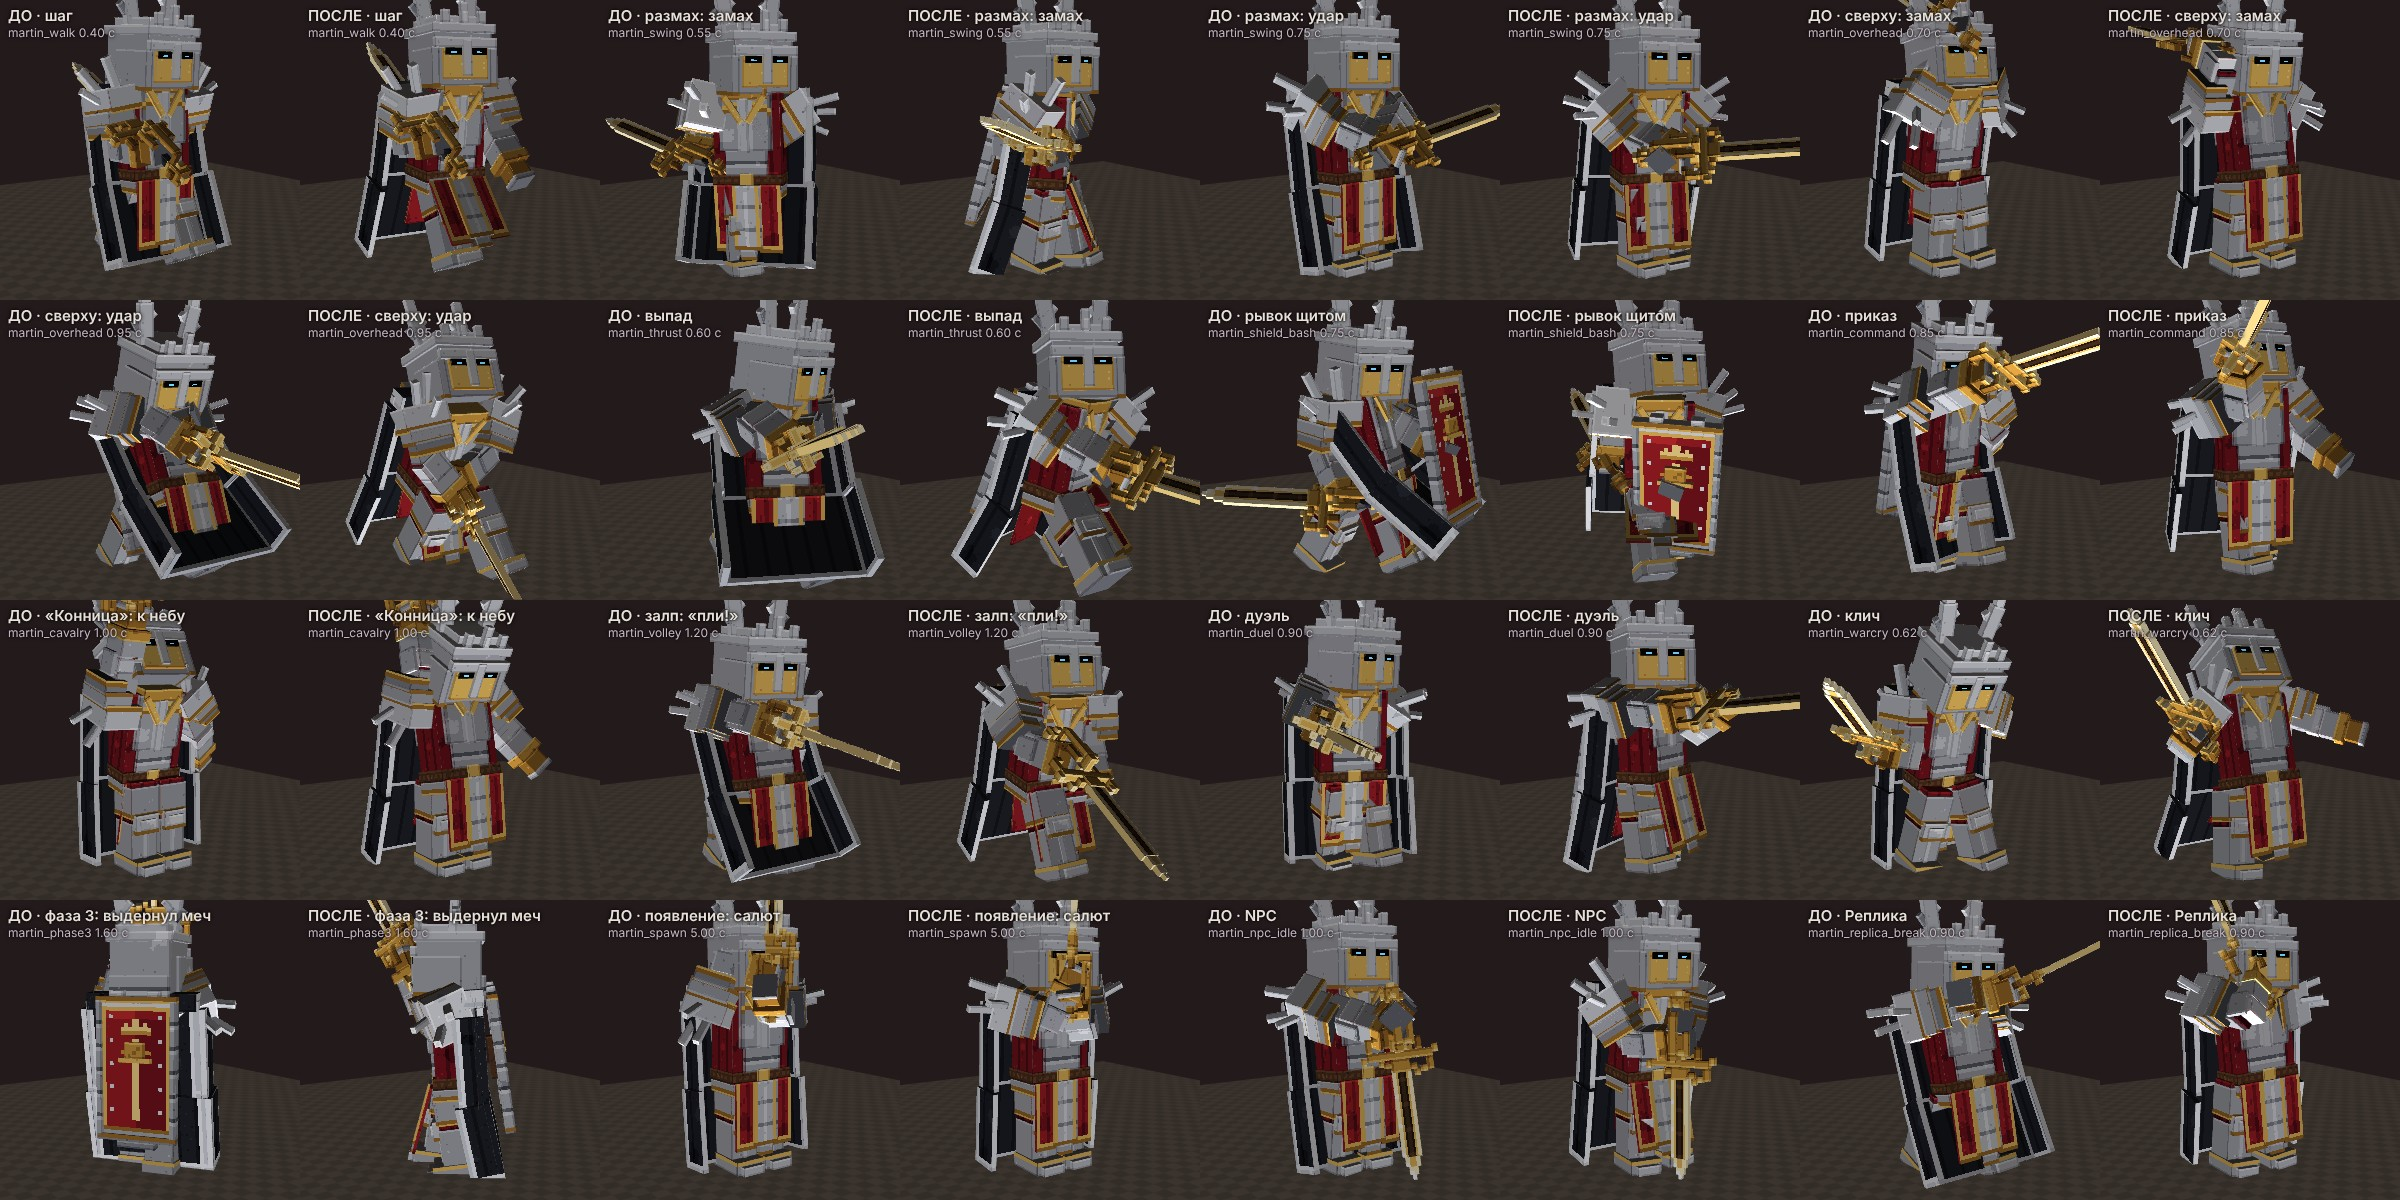
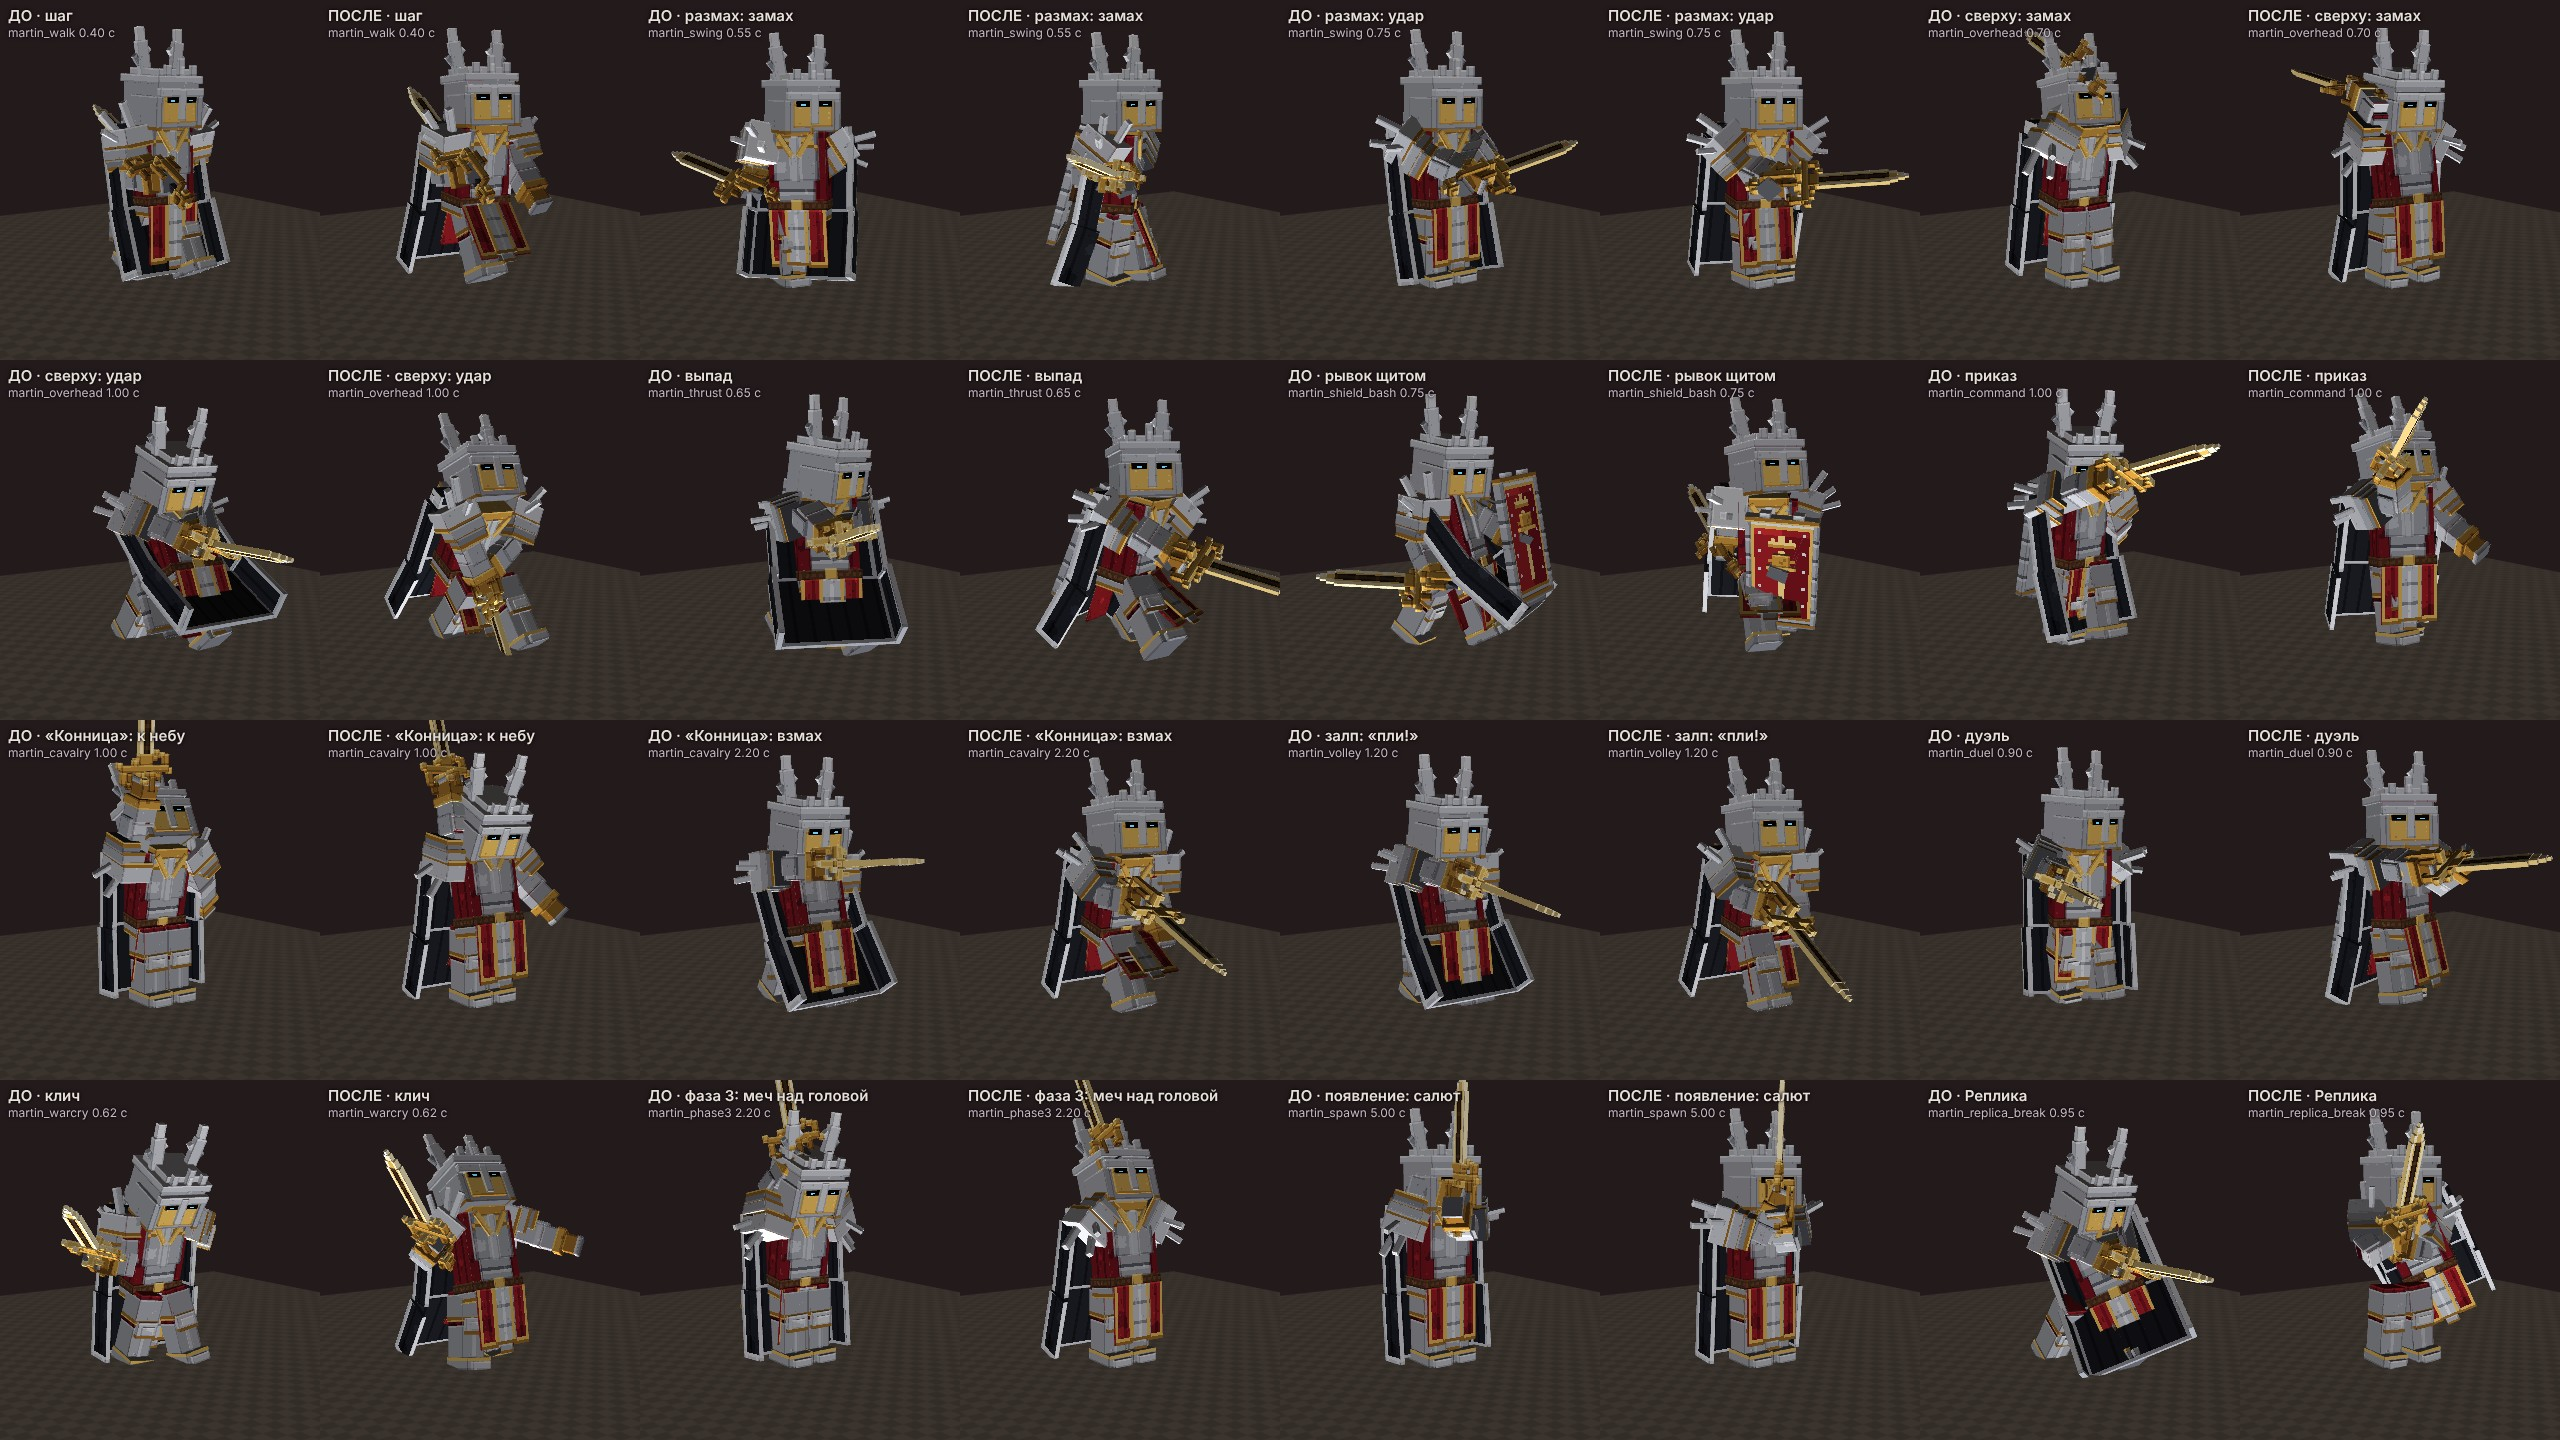
T29 Martin: check sheets with wider framing (sword in frame), arms before/after incl. manager's poses; letter note
Claude-Session: https://claude.ai/code/session_01Fjhr2ffx1ggryobLVk3P9E

diff --git a/tools/martin_arms_check.py b/tools/martin_arms_check.py
@@ -10,11 +10,11 @@ sys.path.insert(0, os.path.dirname(os.path.abspath(__file__)))
 import martin_render as MR  # noqa: E402
 
 MOMENTS = [('martin_walk', 0.4, 'шаг'), ('martin_swing', 0.55, 'размах: замах'), ('martin_swing', 0.75, 'размах: удар'),
-           ('martin_overhead', 0.7, 'сверху: замах'), ('martin_overhead', 0.95, 'сверху: удар'), ('martin_thrust', 0.6, 'выпад'),
-           ('martin_shield_bash', 0.75, 'рывок щитом'), ('martin_command', 0.85, 'приказ'), ('martin_cavalry', 1.0, '«Конница»: к небу'),
-           ('martin_volley', 1.2, 'залп: «пли!»'), ('martin_duel', 0.9, 'дуэль'), ('martin_warcry', 0.62, 'клич'),
-           ('martin_phase3', 1.6, 'фаза 3: выдернул меч'), ('martin_spawn', 5.0, 'появление: салют'), ('martin_npc_idle', 1.0, 'NPC'),
-           ('martin_replica_break', 0.9, 'Реплика')]
+           ('martin_overhead', 0.7, 'сверху: замах'), ('martin_overhead', 1.0, 'сверху: удар'), ('martin_thrust', 0.65, 'выпад'),
+           ('martin_shield_bash', 0.75, 'рывок щитом'), ('martin_command', 1.0, 'приказ'), ('martin_cavalry', 1.0, '«Конница»: к небу'),
+           ('martin_cavalry', 2.2, '«Конница»: взмах'), ('martin_volley', 1.2, 'залп: «пли!»'), ('martin_duel', 0.9, 'дуэль'),
+           ('martin_warcry', 0.62, 'клич'), ('martin_phase3', 2.2, 'фаза 3: меч над головой'), ('martin_spawn', 5.0, 'появление: салют'),
+           ('martin_replica_break', 0.95, 'Реплика')]
 
 
 def main(args):
@@ -27,9 +27,9 @@ def main(args):
     cells = []
     for a, t, lab in MOMENTS:
         an['before:' + a] = before[a]
-        cells.append(dict(model='martin', anim='before:' + a, t=t, yaw=yaw, label='ДО · ' + lab, sub='%s %.2f с' % (a, t)))
-        cells.append(dict(model='martin', anim=a, t=t, yaw=yaw, label='ПОСЛЕ · ' + lab, sub='%s %.2f с' % (a, t)))
-    MR.shoot(MR.page(d, {'cols': 8, 'cells': cells}, three), out, (2400, 1200))
+        cells.append(dict(model='martin', anim='before:' + a, t=t, yaw=yaw, dist=3.2, label='ДО · ' + lab, sub='%s %.2f с' % (a, t)))
+        cells.append(dict(model='martin', anim=a, t=t, yaw=yaw, dist=3.2, label='ПОСЛЕ · ' + lab, sub='%s %.2f с' % (a, t)))
+    MR.shoot(MR.page(d, {'cols': 8, 'cells': cells}, three), out, (2560, 1440))
 
 
 if __name__ == '__main__':

diff --git a/tools/martin_cape_check.py b/tools/martin_cape_check.py
@@ -18,7 +18,7 @@ def main(args):
     three = args[args.index('--three') + 1] if '--three' in args else None
     out = args[args.index('--out') + 1] if '--out' in args else os.path.join(MR.HERE, '..', 'docs', 'media', 't29_cape_fix.jpg')
     yaw = float(args[args.index('--yaw') + 1]) if '--yaw' in args else 90
-    cells = [dict(model='martin', anim=a, t=t, yaw=yaw, pitch=4, label=lab, sub='%s · %.2f с' % (a, t)) for a, t, lab in POSES]
+    cells = [dict(model='martin', anim=a, t=t, yaw=yaw, pitch=4, dist=3.3, label=lab, sub='%s · %.2f с' % (a, t)) for a, t, lab in POSES]
     MR.sheet(out, {'cols': 5, 'cells': cells}, three, (2000, 1500))
 
 

diff --git a/docs/inbox/2026-11-20_mgr_T29_visuals.md b/docs/inbox/2026-11-20_mgr_T29_visuals.md
@@ -340,7 +340,8 @@ IK-хват меча был верным, но в нём оказалась св
 
 **Кадры:**
 - `docs/media/t29_cape_fix.jpg` — 15 поз сбоку. Скрипт — `tools/martin_cape_check.py` (с `--yaw 145` — вид сзади-сбоку).
-- `docs/media/t29_arms_fix.jpg` — 16 ключевых моментов атак, «до» и «после». Скрипт — `tools/martin_arms_check.py --before <старый json>`.
+- `docs/media/t29_arms_fix.jpg` — 16 ключевых моментов атак, «до» и «после», включая позы из вашего замечания: удар сверху 1.0, приказ 1.0, «Конница» 2.2, Реплика 0.95, выпад 0.65, размах 0.75. Скрипт — `tools/martin_arms_check.py --before <старый json>`.
+- Про «меч пропадает» на первом варианте листа плаща. Кость `sword` — ребёнок `right_forearm`, ось в кисти, ключей scale (видимости) у неё нет. Меч был в руке и тогда, но в узкой ячейке вида сбоку клинок, направленный вперёд, уходил за край кадра. Лист перерендерен с отъехавшей камерой. Поперёк в размахе 0.75 — это сам горизонтальный удар. Реальные дефекты меча — провороты крестовины, перескоки хвата, клинок сквозь шлем и ноги — исправлены выше.
 - Видео `docs/media/video/t29_*.mp4` и `t29_turntable.gif` перерендерены после всех правок.
 
 ## Добивание (20.11)
